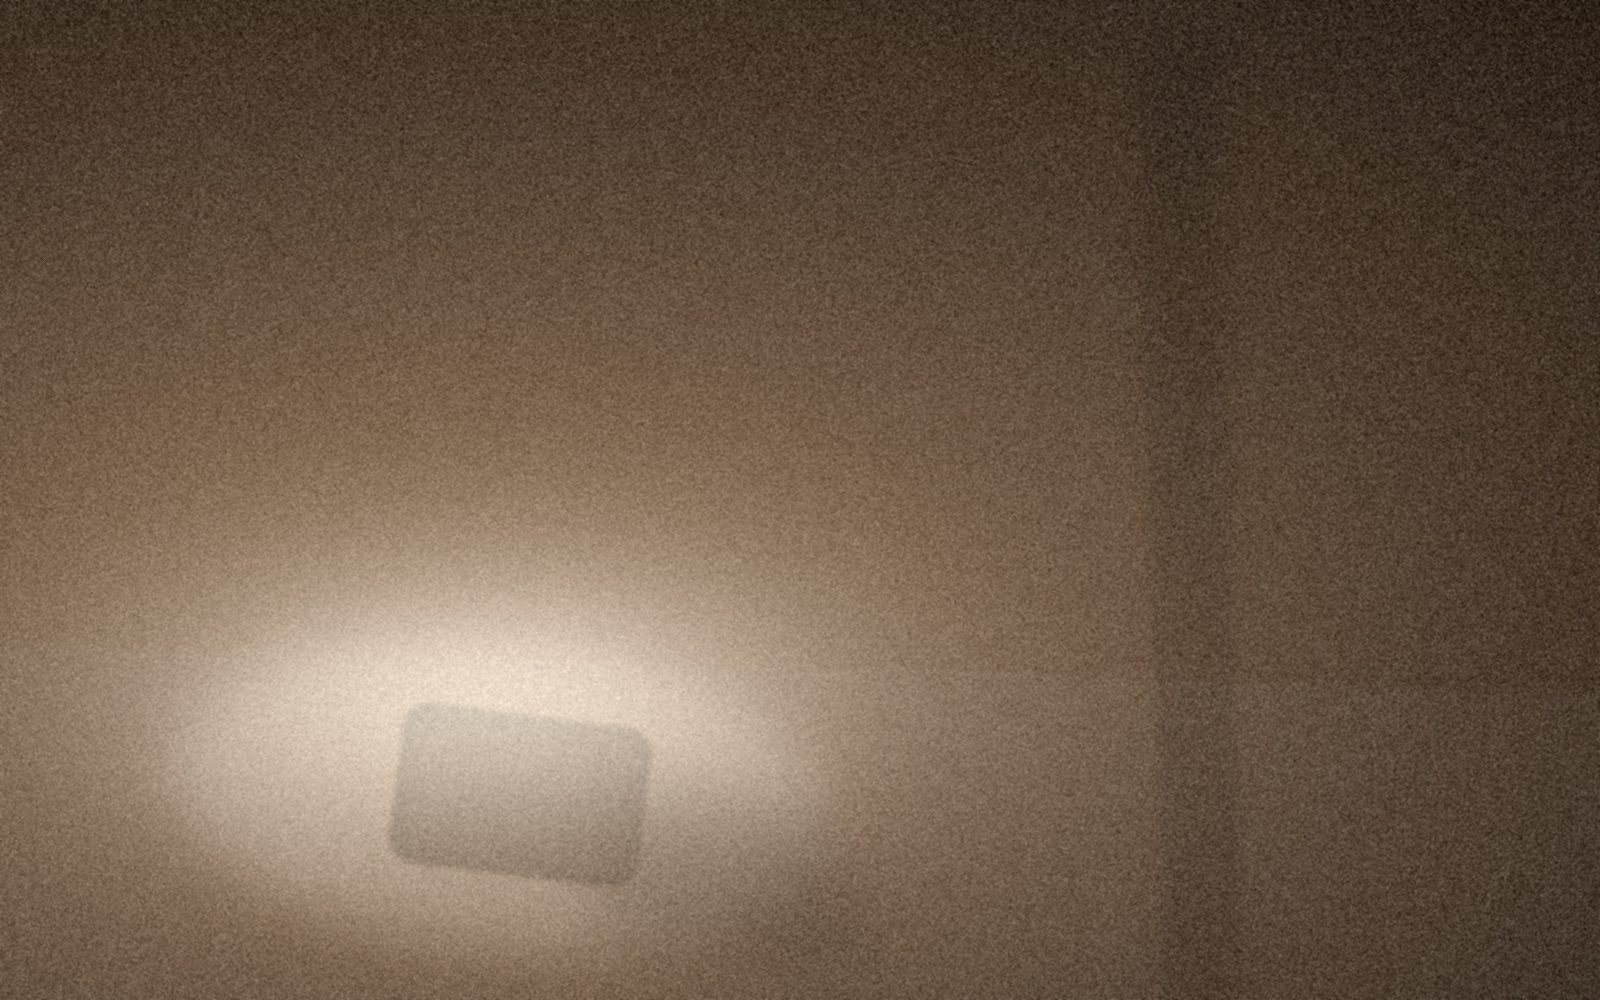
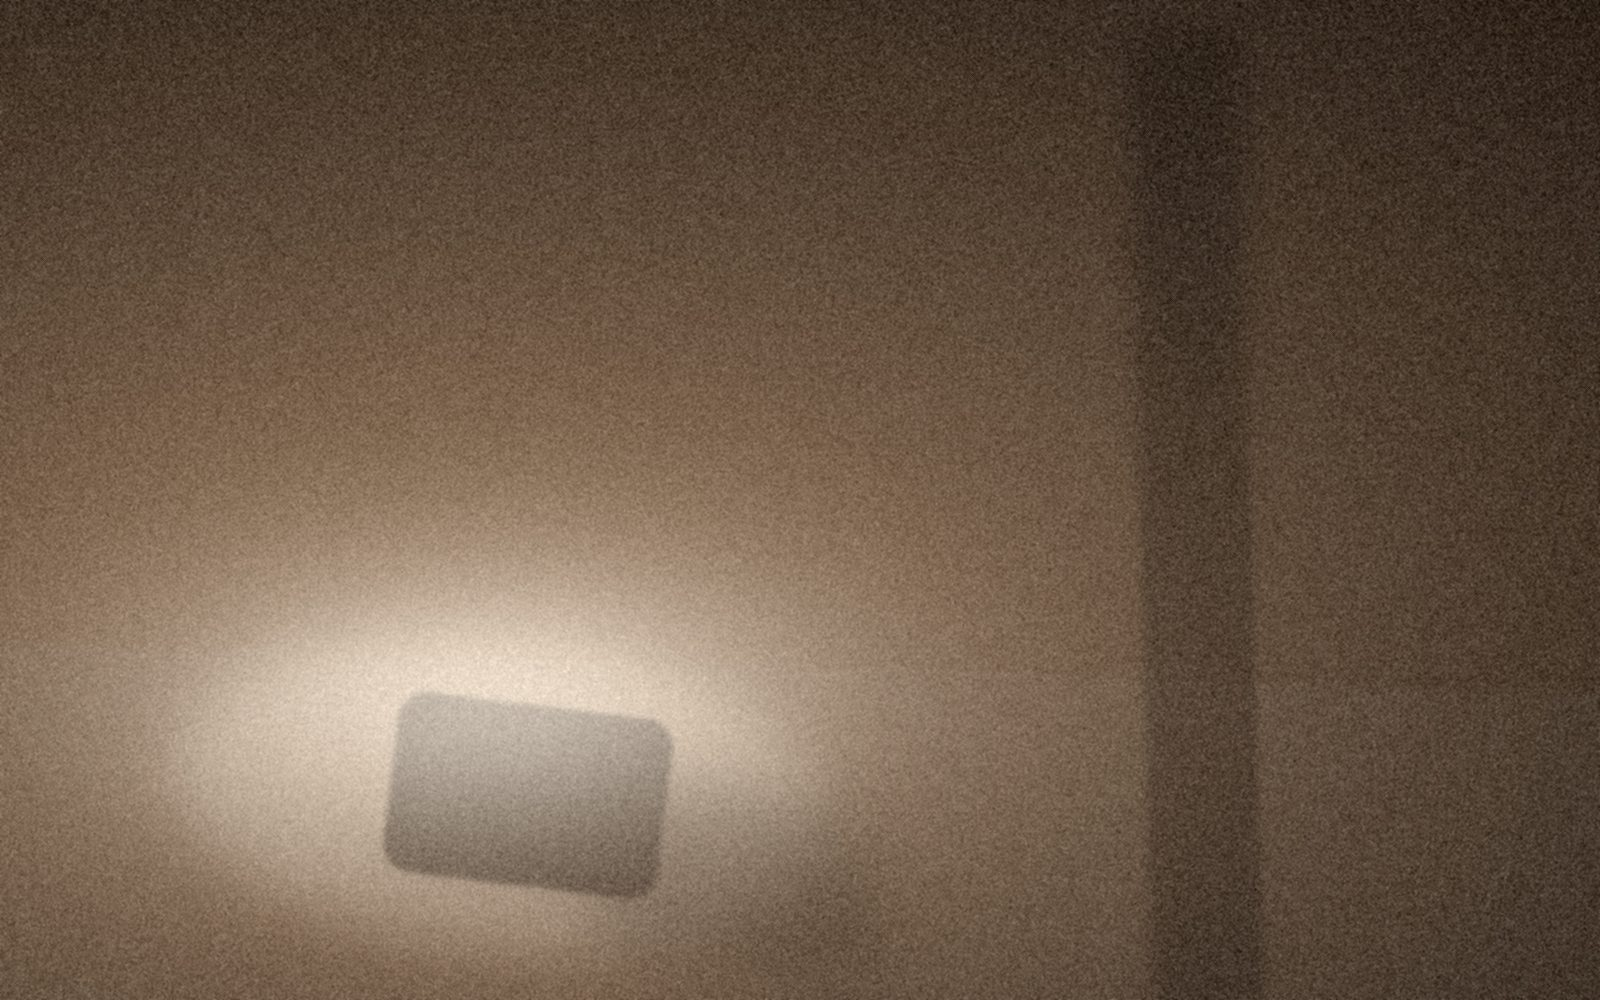
feat: 스토리 6편 paper-and-film (ko/en/ja) + 이미지 2건
6편 「왜 인화지 모양인가요」 — 인화지 틀은 장식이 아니라 '흘러가는
수천 장'과 '남긴 한 장'을 구분하는 표시. 필터는 filters.md 기준
5종+원본으로 서술, 감도 슬라이더(실험 전용)·실물 인화 언급 없음.
en 은 필름 노스탤지어 대신 kept vs consumed 축으로 재작성.

이미지:
- paper-and-film.jpg — single_print 장면 신규 (인화지 한 장 클로즈업)
- not-a-feed.jpg 재생성 — 외부 편집이 남긴 test_not_a_feed 의 미구현
  헬퍼(_night_corner_metrics)를 장면 기하 기반으로 구현했고, 측정 결과
  실루엣/문틀 대비가 의도 임계 미달이라 장면 자체를 강화 (셀프 테스트
  7건 OK). 나머지 4장 해시 불변.

Changed region(s): [[0.2188, 0.713, 0.4375, 0.899], [0.25, 0.682, 0.3438, 0.713]]

diff --git a/scripts/gen-story-images.py b/scripts/gen-story-images.py
@@ -345,6 +345,42 @@ STORIES: list[dict[str, Any]] = [
         "cast": {"shadow_amber": 0.045, "shadow_green": 0.012, "blue_lift": -0.020, "desaturate": 0.10},
         "leak": None,
     },
+    {
+        # paper-and-film — 인화지 한 장 클로즈업. img4(여러 장 벽)와 달리
+        # 흰 여백이 도드라지는 단 한 장이 따뜻한 면 위에 놓임.
+        "slug": "paper-and-film",
+        "scene": "single_print",
+        "seed": 2024081606,
+        "base": "#E3D6C4",
+        "points": [
+            {"color": "#FAF8F3", "center": (0.24, 0.20), "radius": 0.62, "strength": 0.60},
+            {"color": "#C4956A", "center": (0.72, 0.78), "radius": 0.92, "strength": 0.34},
+            {"color": "#7A7068", "center": (1.05, 0.20), "radius": 0.80, "strength": 0.26},
+            {"color": "#F0EBE0", "center": (0.45, 0.55), "radius": 1.10, "strength": 0.18},
+        ],
+        "linears": [
+            {"color": "#FAF8F3", "angle": 28.0, "offset": -0.34, "width": 0.50, "strength": 0.26},
+            {"color": "#2C2826", "angle": -24.0, "offset": 0.66, "width": 0.62, "strength": 0.14},
+        ],
+        "blooms": [
+            {
+                "center": (0.26, 0.22),
+                "radius": (0.30, 0.22),
+                "halo_radius": (0.56, 0.42),
+                "color": "#FAF8F3",
+                "halo": "#C4956A",
+                "strength": 0.44,
+                "halo_strength": 0.24,
+                "lift": 0.10,
+            }
+        ],
+        "blur": 25,
+        "focus": {"middle_y": 0.52, "sharp_band": 0.26, "mid_radius": 2.0, "edge_radius": 14.0},
+        "grain": 0.056,
+        "vignette": {"center": (0.44, 0.44), "amount": 0.36, "power": 1.62},
+        "cast": {"shadow_amber": 0.038, "shadow_green": 0.018, "blue_lift": -0.014, "desaturate": 0.10},
+        "leak": None,
+    },
 ]
 
 
@@ -1070,13 +1106,43 @@ def compose_night_desk(story: dict[str, Any], rng: "np.random.Generator") -> "Im
     image = paint_mask(image, pool.filter(ImageFilter.GaussianBlur(60)), "#C4956A", opacity=0.30)
     image = paint_mask(image, pool.filter(ImageFilter.GaussianBlur(24)), "#F0EBE0", opacity=0.34)
     # 배경 어둠의 세로 모서리 (커튼/문틀) — 암부에 구조를 준다.
-    edge_bar = silhouette_mask(image.size, "bar", (1150, 40, 1230, 1000), radius=8, angle=1.5)
-    image = paint_mask(image, edge_bar.filter(ImageFilter.GaussianBlur(6.0)), "#2C2826", opacity=0.30)
+    edge_bar = silhouette_mask(image.size, "bar", (1140, 30, 1250, 1010), radius=8, angle=1.5)
+    image = paint_mask(image, edge_bar.filter(ImageFilter.GaussianBlur(3.0)), "#2C2826", opacity=0.56)
     # 빛 안의 실루엣 — 노트인지 엎어둔 폰인지 모호한 rounded rect.
-    book = silhouette_mask(image.size, "rounded_rect", (395, 715, 645, 875), radius=26, angle=-7.0)
-    image = cast_directional_shadow(image, book, offset=(150, 80), skew=0.18, blur=30, opacity=0.40)
-    image = paint_mask(image, book.filter(ImageFilter.GaussianBlur(1.4)), "#2C2826", opacity=0.58)
-    image = paint_mask(image, book.filter(ImageFilter.GaussianBlur(8.0)), "#C4956A", opacity=0.10)
+    # 전역 blur(26) 가 대비를 크게 깎으므로 진하게 칠해 최종 이미지에서 또렷이 남게 한다.
+    book = silhouette_mask(image.size, "rounded_rect", (390, 705, 665, 885), radius=28, angle=-7.0)
+    image = cast_directional_shadow(image, book, offset=(150, 80), skew=0.18, blur=30, opacity=0.46)
+    image = paint_mask(image, book.filter(ImageFilter.GaussianBlur(1.2)), "#2C2826", opacity=0.90)
+    return image
+
+
+def compose_single_print(story: dict[str, Any], rng: "np.random.Generator") -> "Image.Image":
+    from PIL import ImageFilter
+
+    image = base_image_for_story(story, rng)
+    # 책상 면 — 전체를 살짝 어둡게 눌러 종이가 뜨게 한다.
+    image = fill_perspective_quad(
+        image,
+        [(-150, 120), (1740, 60), (1770, 1050), (-170, 1030)],
+        "#7A7068",
+        opacity=0.14,
+        rng=rng,
+        edge_jitter=5.0,
+    )
+    # 인화지 한 장 — 흰 여백 프레임. 살짝 기울여 화면 중앙보다 약간 왼쪽 아래.
+    paper = rotated_quad((680, 560), 760, 520, -5.5, perspective=0.04)
+    paper_mask = perspective_quad_mask(image.size, paper, rng, edge_jitter=2.5)
+    image = cast_directional_shadow(image, paper_mask, offset=(120, 95), skew=0.16, blur=34, opacity=0.34)
+    image = paint_mask(image, paper_mask.filter(ImageFilter.GaussianBlur(1.0)), "#FAF8F3", opacity=0.92)
+    # 사진 영역 — 흰 여백 안쪽, 하단 여백을 넓게 (인화지 비례).
+    photo = rotated_quad((680, 505), 640, 330, -5.5, perspective=0.04)
+    photo_mask = perspective_quad_mask(image.size, photo, rng, edge_jitter=2.0)
+    image = paint_mask(image, photo_mask.filter(ImageFilter.GaussianBlur(1.2)), "#7A7068", opacity=0.55)
+    image = paint_mask(image, photo_mask.filter(ImageFilter.GaussianBlur(14)), "#C4956A", opacity=0.28)
+    # 사진 안의 희미한 지평선 느낌 — 안쪽 하단을 살짝 어둡게.
+    photo_lower = rotated_quad((680, 612), 616, 140, -5.5, perspective=0.04)
+    lower_mask = intersect_masks(perspective_quad_mask(image.size, photo_lower, rng, edge_jitter=2.0), photo_mask)
+    image = paint_mask(image, lower_mask.filter(ImageFilter.GaussianBlur(10)), "#2C2826", opacity=0.20)
     return image
 
 
@@ -1091,6 +1157,8 @@ def compose_scene(story: dict[str, Any], rng: "np.random.Generator") -> "Image.I
         return compose_photos_grid(story, rng)
     if story["scene"] == "night_desk":
         return compose_night_desk(story, rng)
+    if story["scene"] == "single_print":
+        return compose_single_print(story, rng)
     raise ValueError(f"Unknown story scene: {story['scene']}")
 
 
@@ -1176,6 +1244,36 @@ def _horizon_scene_metrics(path: Path) -> dict[str, float]:
             "horizon_y_range": float(np.max(horizon_y) - np.min(horizon_y)),
             "vignette_drop": float(center - corners),
             "std": float(pixels.std()),
+        }
+
+
+def _night_corner_metrics(path: Path) -> dict[str, float]:
+    import numpy as np
+    from PIL import Image
+    from PIL import ImageFilter
+
+    with Image.open(path) as image:
+        rgb = np.asarray(image.convert("RGB"), dtype=np.float32)
+        gray = np.asarray(image.convert("L"), dtype=np.float32)
+        blurred = np.asarray(image.convert("L").filter(ImageFilter.GaussianBlur(1.4)), dtype=np.float32)
+
+        # night_desk 장면 기하와 맞춘 샘플 영역 (compose_night_desk 참조)
+        lamp_pool = gray[680:900, 220:780]          # 램프 빛 웅덩이 (실루엣 좌우 링 포함)
+        upper_right = gray[40:300, 1250:1560]       # 화면 우상단 깊은 어둠
+        object_core = gray[760:850, 450:600]        # 실루엣 내부
+        pool_ring = np.concatenate(
+            [gray[760:850, 240:380].ravel(), gray[760:850, 660:800].ravel()]
+        )                                            # 같은 높이의 실루엣 좌/우 밝은 웅덩이
+        soft = np.asarray(image.convert("L").filter(ImageFilter.GaussianBlur(4)), dtype=np.float32)
+        vertical_zone = soft[120:900, 1080:1320]     # 배경 세로 모서리(커튼/문틀) 주변
+
+        return {
+            "mean": float(gray.mean()),
+            "lamp_minus_upper_right": float(lamp_pool.mean() - upper_right.mean()),
+            "object_shadow_drop": float(pool_ring.mean() - object_core.mean()),
+            "vertical_edge_strength": float(np.abs(np.diff(vertical_zone, axis=1)).mean() * 10.0),
+            "warmth": float(rgb[..., 0].mean() - rgb[..., 2].mean()),
+            "grain_std": float((gray - blurred).std()),
         }
 
 

diff --git a/src/stories/paper-and-film/ja.md b/src/stories/paper-and-film/ja.md
@@ -1,0 +1,33 @@
+---
+title: なぜ、印画紙のかたちなのか
+summary: 何千枚もの写真が流れていく時代に、1枚を紙の上に置くということ。
+date: 2026-08-21
+---
+
+このアプリでは、写真が画面いっぱいには表示されません。白いふちのついた、印画紙のような枠の中に置かれます。ぱっと見はただの飾りのようですが、実はこのアプリでいちばん意図を込めた部分です。
+
+## 印画紙1枚の重さ
+
+アルバムの中の写真と、机の上に置かれたプリントは、同じ写真でも重さが違います。アルバムの何千枚かはスワイプひとつで流れていく流れの一部ですが、印画紙の上の1枚は、止まっている「もの」です。誰かが選び、残すと決めたから、そこにあるのです。
+
+1日1枚を選ぶこのアプリの記録を、流れていくイメージのように見せたくありませんでした。今日選んだ写真が「選ばれた1枚」であることが、画面の上でも見えるべきだと考えました。白いふちはその印です。この写真は流れていく何千枚ではなく、残すと決めた1枚だという印です。
+
+## フィルターは補正ではなく、記憶の温度
+
+アプリにはフィルム由来のフィルターが5つあります。ウォームトーン、ソフトグレイン、ビンテージフィルム、コダクローム、ロモ。もちろん、原本のままでも構いません。
+
+これらは写真を「よく見せる」補正とは目的が違います。肌をなめらかにしたり、色を華やかにしたりはしません。むしろ粒子をのせ、色を少し褪せさせ、四隅を暗くします。写真を「たった今撮ったイメージ」から「少し時間の経った記憶」のトーンへ移す、という方向です。
+
+記憶は原本の画質では保存されませんから。少し暖かく、少し褪せたまま残ります。フィルターは、その温度を先に着せておく仕事です。
+
+## フィルムのように、慎重になる1枚
+
+フィルムカメラで撮ったことのある方ならわかると思います。24枚しか撮れないとなると、シャッターを切る前にもう一度見る。皮肉なことに、その制約が写真を長く記憶させます。慎重に選んだ場面だからです。
+
+1日1枚というこのアプリのルールは、その感覚を借りてきたものです。無限に撮って無限に上げられる時代に、今日のフィルムが1コマだけだとしたら、どの場面を残しますか。その問いを毎晩一度することになる——このアプリがフィルムから持ってきたかったのは、それだけです。
+
+## 画面の上の、紙
+
+いつからか、写真は手に取れないものになりました。撮る瞬間はあるのに、触れる瞬間がありません。
+
+印画紙の枠は、その感覚へのなつかしさでもあります。画面の中ではあるけれど、今日の写真が1枚の紙の上に置かれているという想像。カレンダーをめくるとその紙が日付ごとに貼られていて、何年か経てば、引き出しいっぱいのプリントの束のように積もっているだろうという想像。記録を続けさせるのは、機能よりもこういう想像だと、私たちは思っています。

diff --git a/src/stories/paper-and-film/ko.md b/src/stories/paper-and-film/ko.md
@@ -1,0 +1,33 @@
+---
+title: 왜 인화지 모양인가요
+summary: 사진 수천 장이 스치듯 지나가는 시대에, 한 장을 종이 위에 올려놓는 일에 대하여.
+date: 2026-08-21
+---
+
+이 앱에서 사진은 화면에 꽉 차게 뜨지 않습니다. 흰 여백이 둘린 인화지 모양 틀 안에 놓입니다. 처음 보면 그냥 예쁘라고 만든 장식 같지만, 사실은 이 앱에서 가장 의도가 많이 들어간 부분입니다.
+
+## 인화지 한 장의 무게
+
+앨범 속 사진과 책상 위에 놓인 인화된 사진은 같은 사진이라도 무게가 다릅니다. 앨범 속 수천 장은 스와이프 한 번에 지나가는 흐름의 일부지만, 인화지에 올라간 한 장은 멈춰 있는 물건입니다. 누군가 골랐고, 남기기로 했고, 그래서 거기 있는 것이죠.
+
+하루에 한 장을 고르는 이 앱의 기록을 그 흐름 속 이미지처럼 보여주고 싶지 않았습니다. 오늘 고른 사진이 "선택된 한 장"이라는 사실이 화면에서도 보여야 한다고 생각했습니다. 흰 여백은 그 표시입니다. 이 사진은 흘러가는 수천 장이 아니라, 남기기로 한 한 장이라는 표시요.
+
+## 필터는 보정이 아니라 기억의 온도
+
+앱에는 필름에서 가져온 필터 다섯 가지가 있습니다. 웜톤, 소프트 그레인, 빈티지 필름, 코다크롬, 로모. 물론 원본 그대로도 됩니다.
+
+이 필터들은 사진을 더 잘 나오게 하는 보정과는 목적이 다릅니다. 피부를 매끈하게 하거나 색을 화사하게 만들지 않습니다. 오히려 입자를 얹고, 색을 살짝 바래게 하고, 모서리를 어둡게 합니다. 사진을 "지금 막 찍은 이미지"에서 "시간이 좀 지난 기억"의 톤으로 옮겨 놓는 쪽에 가깝습니다.
+
+기억은 원본 화질로 저장되지 않으니까요. 조금 따뜻하게, 조금 바랜 채로 남습니다. 필터는 그 온도를 미리 입혀 두는 일입니다.
+
+## 필름처럼 신중해지는 한 컷
+
+필름 카메라로 사진을 찍어 본 분들은 아실 겁니다. 스물네 컷밖에 없으면 셔터를 누르기 전에 한 번 더 보게 됩니다. 아이러니하게도 그 제약이 사진을 더 오래 기억하게 만듭니다. 신중하게 고른 장면이라서요.
+
+하루 한 장이라는 이 앱의 규칙은 그 감각을 빌려 온 것입니다. 무한히 찍고 무한히 올릴 수 있는 시대에, 하루치 필름이 한 컷뿐이라면 어떤 장면을 남기시겠어요. 그 질문을 매일 저녁 한 번씩 하게 되는 것, 그게 이 앱이 필름에서 가져오고 싶었던 전부입니다.
+
+## 화면 위의 종이
+
+언젠가부터 사진은 손에 잡히지 않는 것이 되었습니다. 찍는 순간은 있는데 만지는 순간이 없습니다.
+
+인화지 틀은 그 감각에 대한 그리움이기도 합니다. 화면 속이지만, 오늘의 사진이 한 장의 종이 위에 놓여 있다는 상상. 달력을 넘기면 그 종이들이 날짜마다 붙어 있고, 몇 년이 지나면 그게 서랍 가득한 인화지 뭉치처럼 쌓여 있을 거라는 상상. 기록을 계속하게 만드는 건 기능보다 이런 상상이라고 저희는 믿고 있습니다.

diff --git a/src/stories/paper-and-film/en.md b/src/stories/paper-and-film/en.md
@@ -1,0 +1,33 @@
+---
+title: Why every photo sits on paper
+summary: On white borders, and the difference between an image that flows past and one that's been kept.
+date: 2026-08-21
+---
+
+Photos in this app don't fill the screen. Each one sits inside a white paper border, like a print. At first glance it reads as decoration. It's actually the most deliberate design decision in the app.
+
+## An image that flows vs. an image that's kept
+
+The same photo carries different weight in different places. In a camera roll it's one of thousands, part of a stream your thumb moves through without stopping. Lying on a desk as a print, it's an object at rest. Someone chose it. Someone decided it was worth keeping. That's why it's there.
+
+A record built from one photo a day shouldn't look like the stream. The photo you chose today is not passing through — it was selected, and the screen should say so. That's what the white border is: a mark that separates a kept image from a consumed one.
+
+## Filters as the temperature of memory
+
+There are five film-derived filters — a warm tone, a soft grain, a vintage stock, and two classic looks — or you can leave the photo untouched.
+
+They do the opposite of what "enhancement" usually means. Nothing gets smoothed or brightened for presentation. Grain is added, colors settle and fade slightly, corners darken. The photo shifts from "an image just captured" toward "a memory some time has passed over."
+
+Memory doesn't store things at full resolution anyway. It keeps them a little warmer and a little faded. The filters simply set that temperature in advance.
+
+## One frame makes you look twice
+
+When there's no limit on how much you can capture, nothing gets a second look. But give a day exactly one frame, and the question changes: out of everything today, which moment is worth it? You scan the day once before answering.
+
+That single pause — brief, almost unnoticeable — is the entire mechanism. The photo you keep after asking the question stays with you longer than a hundred kept without it, not because it's a better photo, but because choosing it required you to look at your own day.
+
+## Paper, on a screen
+
+Somewhere along the way photos stopped being things you hold. There's a moment of taking, and no moment of touching.
+
+The paper frame is partly an homage to that missing moment. The photo of your day, resting on a sheet of paper — on a screen, yes, but resting rather than streaming. Flip through the calendar and those sheets accumulate date by date, the way a drawer fills with prints. What keeps a record going, we suspect, is less any feature than an image like that in the back of your mind.
